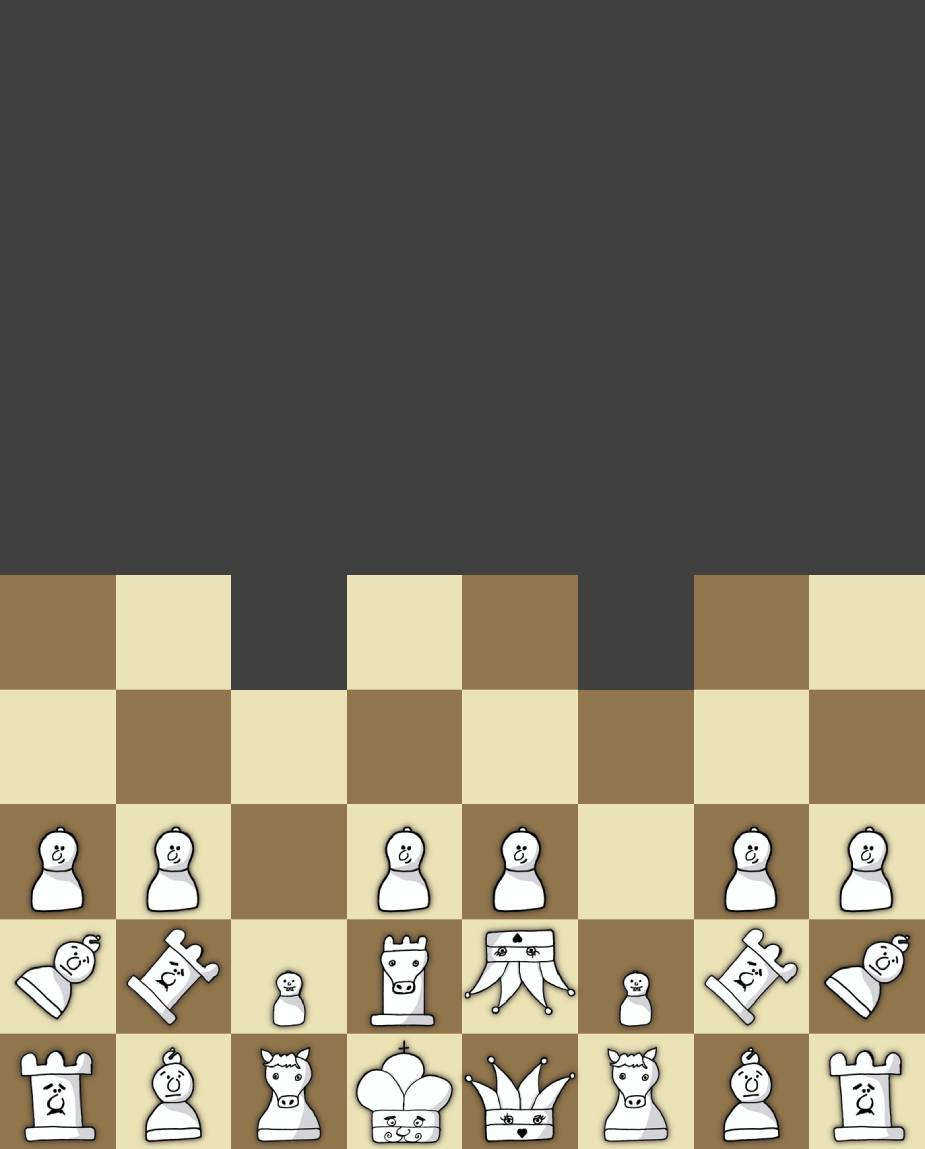
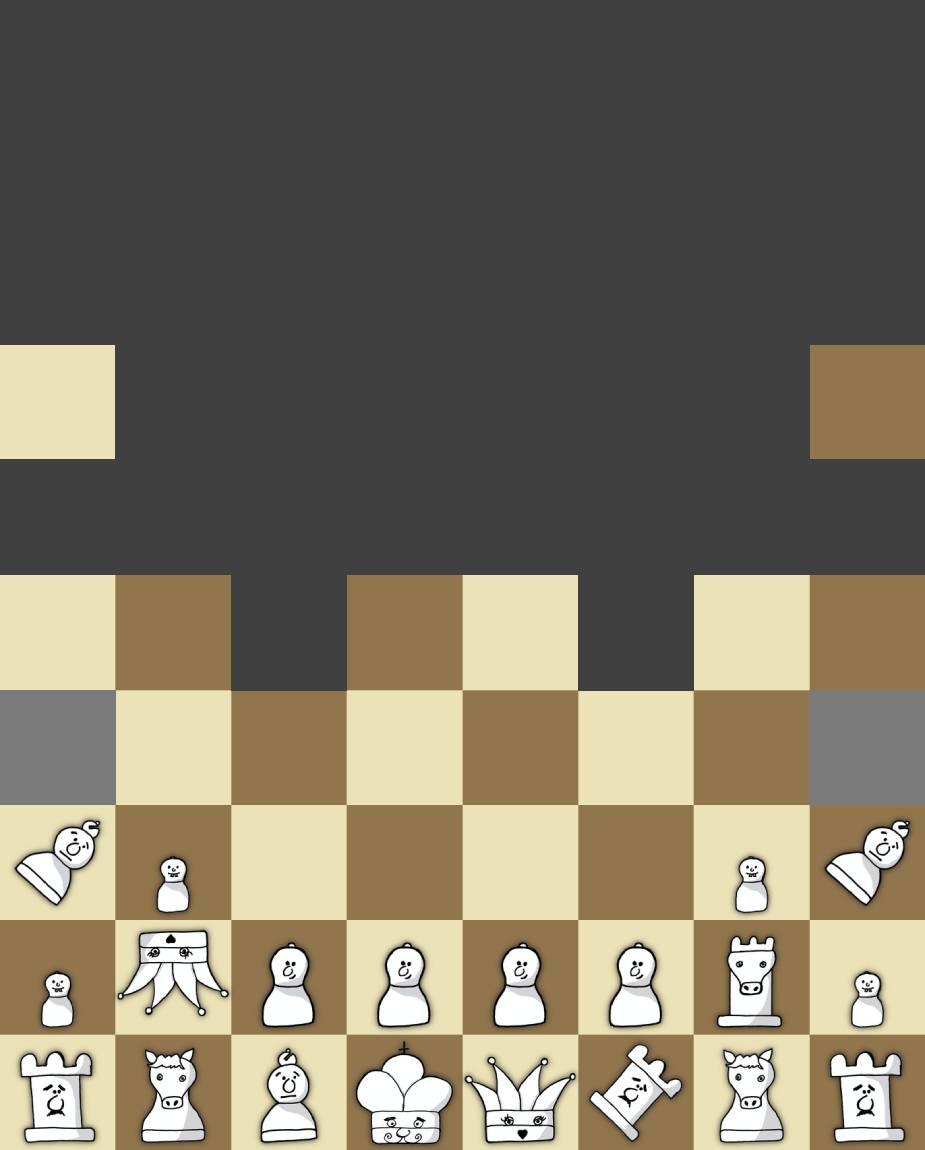
highlight squares and arrow drawing

diff --git a/static/javascript/game.js b/static/javascript/game.js
@@ -6,12 +6,14 @@ const squareHTML = $($.parseHTML(`
 const pieceHTML = $($.parseHTML(`<img class="img-fluid piece" draggable="false">`))
 
 const gameToken = window.location.pathname.split("/").pop();
+const CSSProperties = getComputedStyle(document.documentElement, null);
 
 var moves;
 var board;
 var color;
 var isLocalTurn;
 
+var highlightElement;
 var movingElement;
 
 var boardHeight;
@@ -58,7 +60,9 @@ async function main() {
 
     if (isLocalTurn) enableDraggable();
 
-    $(`[color=${color}]`).on("mousedown", function() {
+    $(`[color=${color}]`).mousedown(function(event) {
+        if (event.which != 1) return;
+
         if (!isLocalTurn) return;
 
         $(".valid-move").hide().parent().droppable().droppable("disable");
@@ -79,14 +83,31 @@ async function main() {
         }
     })
 
-    $(".square").click(function() {
-        if ($(this).find(".valid-move").is(":hidden")) return;
-        move(movingElement, $(this));
-    });
+    $(".square").mousedown(function(event) {
+        if (event.which == 1) {
+            clearAllHighlights();
+            clearAllArrows();
+        }
+        else highlightElement = $(this);
+    })
+    $(".square").mouseup(function(event) {
+        if (event.which == 1) {
+            if ($(this).find(".valid-move").is(":hidden")) return;
+            move(movingElement, $(this));
+            return;
+        }
 
-    const arrowsCanvas = document.querySelector("#arrows-canvas");
-    arrowsCanvas.width = boardContainer.width();
-    arrowsCanvas.height = boardContainer.height();
+        const currentSquare = $(this);
+        if (currentSquare.is(highlightElement)) {
+            if (currentSquare.hasClass("highlight")) clearHighlight(currentSquare)
+            else highlightSquare(currentSquare);
+        } else {
+            highlightElementID = highlightElement.attr("id");
+            currentSquareID = currentSquare.attr("id");
+            if (highlightElementID in arrows && currentSquareID in arrows[highlightElementID]) clearArrow(highlightElement, currentSquare);
+            else drawArrow(highlightElement, currentSquare);
+        }
+    })
 }
 loadAuthInfo().then(main);
 
@@ -128,6 +149,7 @@ function disableDraggable() {
 }
 
 async function movePiece(originElement, destinationElement, originX, originY, destinationX, destinationY) {
+    movingElement = null;
     allLegalCache = {};
     moves.push({"piece": board[originY][originX].piece.name, "origin": {"x": originX, "y": originY}, "destination": {"x": destinationX, "y": destinationY}});
 
@@ -181,15 +203,15 @@ gameNamespace.on("move", async (data) => {
 });
 gameNamespace.on("exception", async data => {
     console.error(data);
+    movingElement.animate({
+        "top": "0px",
+        "left": "0px"
+    }, 100);
+    movingElement = null;
 
     if (data["code"] == 5) {
-        movingElement.animate({
-            "top": "0px",
-            "left": "0px"
-        }, 100);
         enableDraggable();
 
-        movingElement = null;
         forcedMoves = data["message"];
         for (let i = 0; i < 2; i++) {
             if (movingElement) return;
@@ -197,17 +219,36 @@ gameNamespace.on("exception", async data => {
             for (const [fromSquare, toSquare] of forcedMoves) {
                 const fromElement = $(`#${fromSquare.y}-${fromSquare.x}`);
                 const toElement = $(`#${toSquare.y}-${toSquare.x}`);
-                fromElement.css("background-color", "#C27356");
-                toElement.css("background-color", "#C27356");
+                highlightSquare(fromElement);
+                highlightSquare(toElement);
                 drawArrow(fromElement, toElement);
             }
             await sleep(250);
-            clearArrows();
-            $(".square").css("background-color", "");
+            clearAllArrows();
+            clearHighlights
             await sleep(250);
         }
     } else showAlert("Something went wrong. Please refresh the page");
 })
+
+function highlightSquare(square) {
+    square.addClass("highlight");
+    square.animate({
+        "background-color": square.hasClass("square-dark") ?
+            CSSProperties.getPropertyValue("--highlight-dark") : CSSProperties.getPropertyValue("--highlight-light")
+        }, 200);
+}
+async function clearHighlight(square) {
+    await square.animate({
+        "background-color": square.hasClass("square-dark") ?
+            CSSProperties.getPropertyValue("--square-dark") : CSSProperties.getPropertyValue("--square-light")
+        }, 200).promise();
+    square.removeClass("highlight");
+    square.css("background-color", "");
+}
+function clearAllHighlights() {
+    $(".highlight").each((i, square) => clearHighlight($(square)));
+}
 
 
 function pieceSlice(pieces, capture = true) {
@@ -368,28 +409,37 @@ const allLegal = {
 };
 
 // Arrow
-arrows = [];
+arrows = {};
 function drawArrow(fromElement, toElement) {
-    const boardOffset = $("#board").offset();
+    const squareWidth = $(".square").width();
+
     let [y1, x1] = Object.values(fromElement.offset());
     let [y2, x2] = Object.values(toElement.offset());
 
-    const squareOffset = $(".square").width() / 2;
-    y1 -= boardOffset.top;
+    const canvas = document.createElement("canvas");
+    canvas.style.top = Math.min(y1, y2) + "px";
+    canvas.style.left = Math.min(x1, x2) + "px";
+    canvas.height = Math.abs(y2 - y1) + squareWidth;
+    canvas.width = (Math.abs(x2 - x1) / squareWidth) * squareWidth + squareWidth;
+    document.body.appendChild(canvas);
+
+    const squareOffset = squareWidth / 2;
+    const canvasRect = canvas.getBoundingClientRect()
+    y1 -= canvasRect.top;
     y1 += squareOffset
 
-    x1 -= boardOffset.left;
+    x1 -= canvasRect.left;
     x1 += squareOffset;
 
-    y2 -= boardOffset.top;
+    y2 -= canvasRect.top;
     y2 += squareOffset;
 
-    x2 -= boardOffset.left;
+    x2 -= canvasRect.left;
     x2 += squareOffset;
 
     const viewportMin = Math.min($(window).width(), $(window).height());
 
-    const context = document.querySelector("#arrows-canvas").getContext("2d");
+    const context = canvas.getContext("2d");
     context.beginPath();
 
     context.lineWidth = percent(1.5, viewportMin);
@@ -419,15 +469,24 @@ function drawArrow(fromElement, toElement) {
     context.restore();
     context.fill();
 
-    arrows.push({"from": fromElement, "to": toElement})
+    fromID = fromElement.attr("id");
+    toID = toElement.attr("id");
+    if (fromID in arrows) arrows[fromID][toID] = canvas;
+    else {
+        arrows[fromID] = {};
+        arrows[fromID][toID] = canvas;
+    }
 }
 
-function clearArrows() {
-    arrows = [];
-
-    const arrowsCanvas = document.querySelector("#arrows-canvas");
-    const context = arrowsCanvas.getContext("2d");
-    context.clearRect(0, 0, arrowsCanvas.width, arrowsCanvas.height);
+function clearArrow(fromElement, toElement) {
+    const fromElementID = fromElement.attr("id");
+    const toElementID = toElement.attr("id");
+    arrows[fromElementID][toElementID].remove();
+    delete arrows[fromElementID][toElementID];
+}
+function clearAllArrows() {
+    arrows = {};
+    $("canvas").remove();
 }
 
 var resizeTimeout;
@@ -435,12 +494,15 @@ $(window).on("resize", () => {
     clearTimeout(resizeTimeout);
     resizeTimeout = setTimeout(function() {
         const boardContainer = $("#board");
-        const arrowsCanvas = document.querySelector("#arrows-canvas");
-        arrowsCanvas.width = boardContainer.width();
-        arrowsCanvas.height = boardContainer.height();
-        for (const [index, arrowData] of Object.entries(arrows)) {
-            arrows.splice(index, 1);
-            drawArrow(arrowData.from, arrowData.to);
+        const canvas = document.getElementsByTagName("canvas");
+        canvas.width = boardContainer.width();
+        canvas.height = boardContainer.height();
+
+        const arrowsCopy = Object.assign({}, arrows);
+        clearAllArrows();
+        for (const [fromElementID, toElementIDs] of Object.entries(arrowsCopy)) {
+            const fromElement = $(`#${fromElementID}`);
+            for (const toElementID of Object.keys(toElementIDs)) drawArrow(fromElement, $(`#${toElementID}`));
         }
     }, 30);
 });

diff --git a/static/css/game.css b/static/css/game.css
@@ -1,9 +1,17 @@
+:root {
+    --square-light: #F1E1B3;
+    --square-dark: #997349;
+
+    --highlight-light: #D7856E;
+    --highlight-dark: #C27356;
+}
+
 .square-light {
-    background-color: #f1e1b3;
+    background-color: var(--square-light);
 }
 
 .square-dark {
-    background-color: #997349;
+    background-color: var(--square-dark);
 }
 
 .piece {
@@ -54,10 +62,8 @@
     position: relative
 }
 
-#arrows-canvas {
+canvas {
     z-index: 10;
-    top: 0;
-    left: 0;
     position: absolute;
     pointer-events: none;
 }

diff --git a/frontend/templates/game.html b/frontend/templates/game.html
@@ -28,9 +28,7 @@
         <script src="../static/javascript/addons.js" alert="{{alert}}"></script>
     </head>
     <body>
-        <div id="board">
-            <canvas id="arrows-canvas"></canvas>
-        </div>
+        <div id="board" oncontextmenu="return false;"></div>
         
         <script src="../static/javascript/util.js"></script>
         <script src="../static/javascript/game.js"></script>
